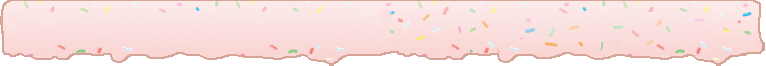
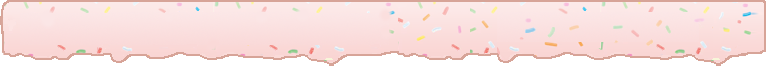
brief design fix
wouldn't be a day without it

Changed region(s): [[0.0, 0.0, 1.0, 0.8182]]

diff --git a/pages/guidedreader/index.tsx b/pages/guidedreader/index.tsx
@@ -66,7 +66,7 @@ function Home({ user }: any) {
     const [correctingAnnotation, setCorrectingAnnotation] = useState<boolean>(false);
     const [correctingAnnotationData, setCorrectingAnnotationData] = useState<any>(null);
 
-    const [themeName, setThemeName] = useState<string>('default');
+    const [themeName, setThemeName] = useState<string>('cake');
     const [currentThemeData, setCurrentThemeData] = useState<Theme | null>(null);
 
     const [isLoggedIn, setIsLoggedIn] = useState(false);

diff --git a/pages/guidedreader/styles/index.module.css b/pages/guidedreader/styles/index.module.css
@@ -10,8 +10,6 @@
     transform: translateX(50%);
     margin-top: 60px;
     margin-right: 100px;
-    padding-left: 10px;
-    padding-right: 10px;
     width: fit-content;
     display: flex;
     flex-direction: row;
